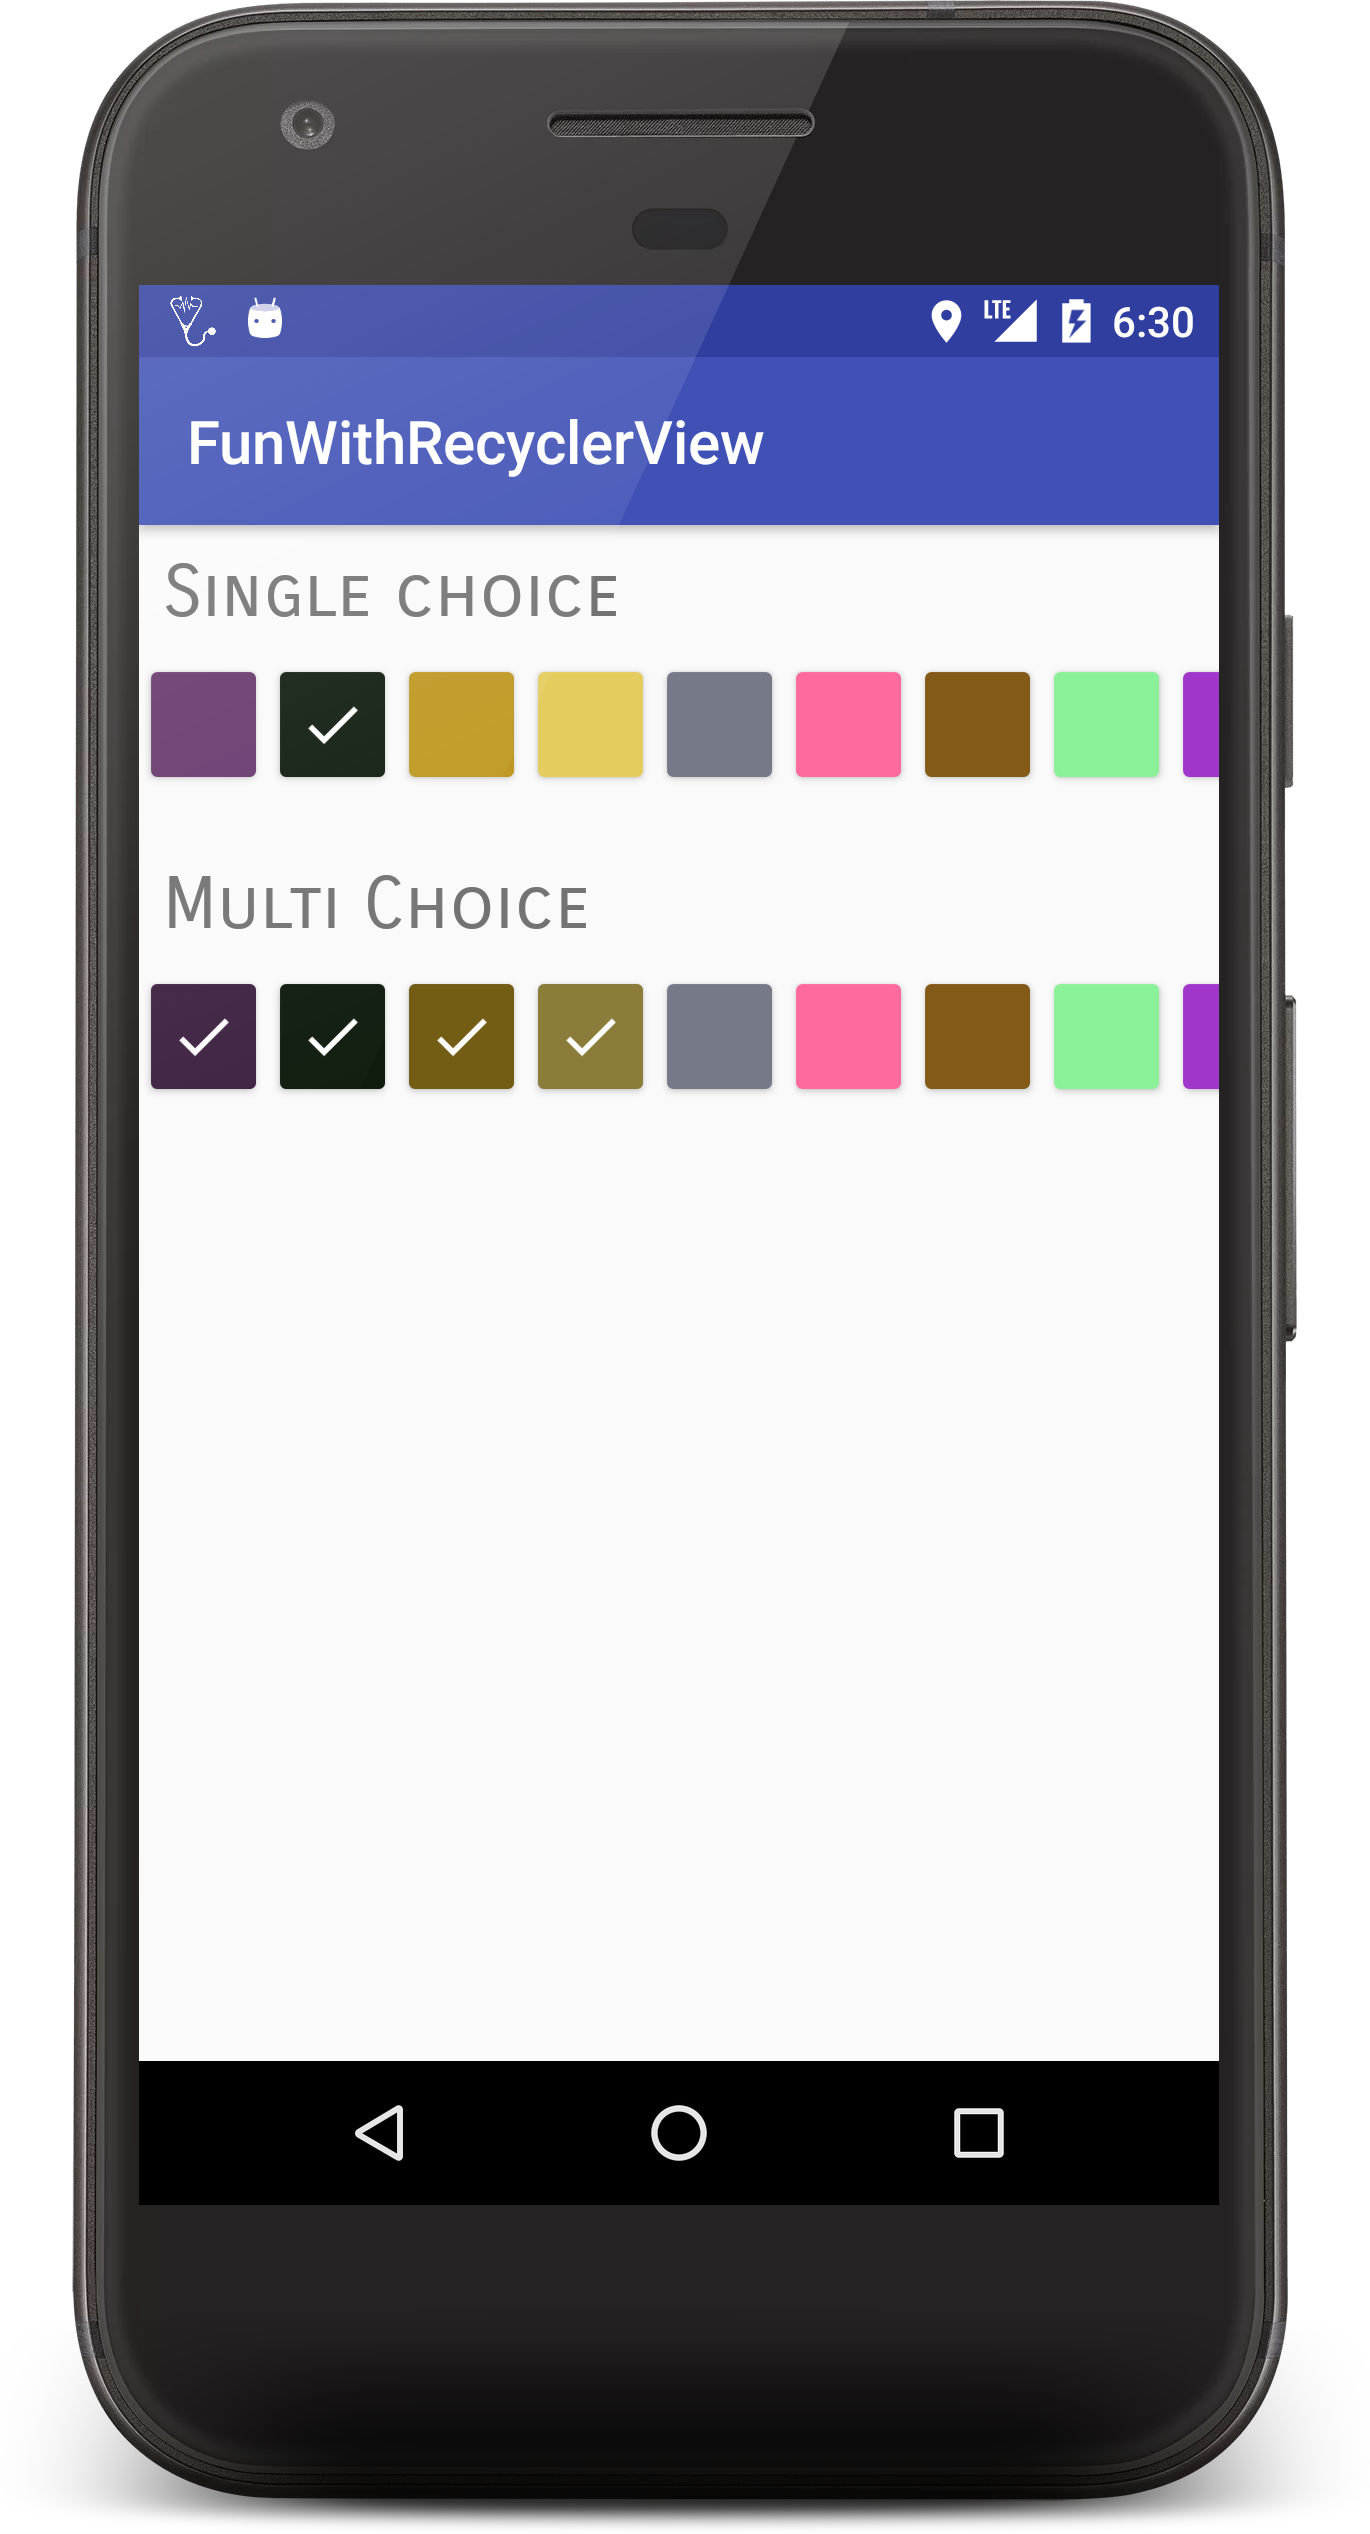
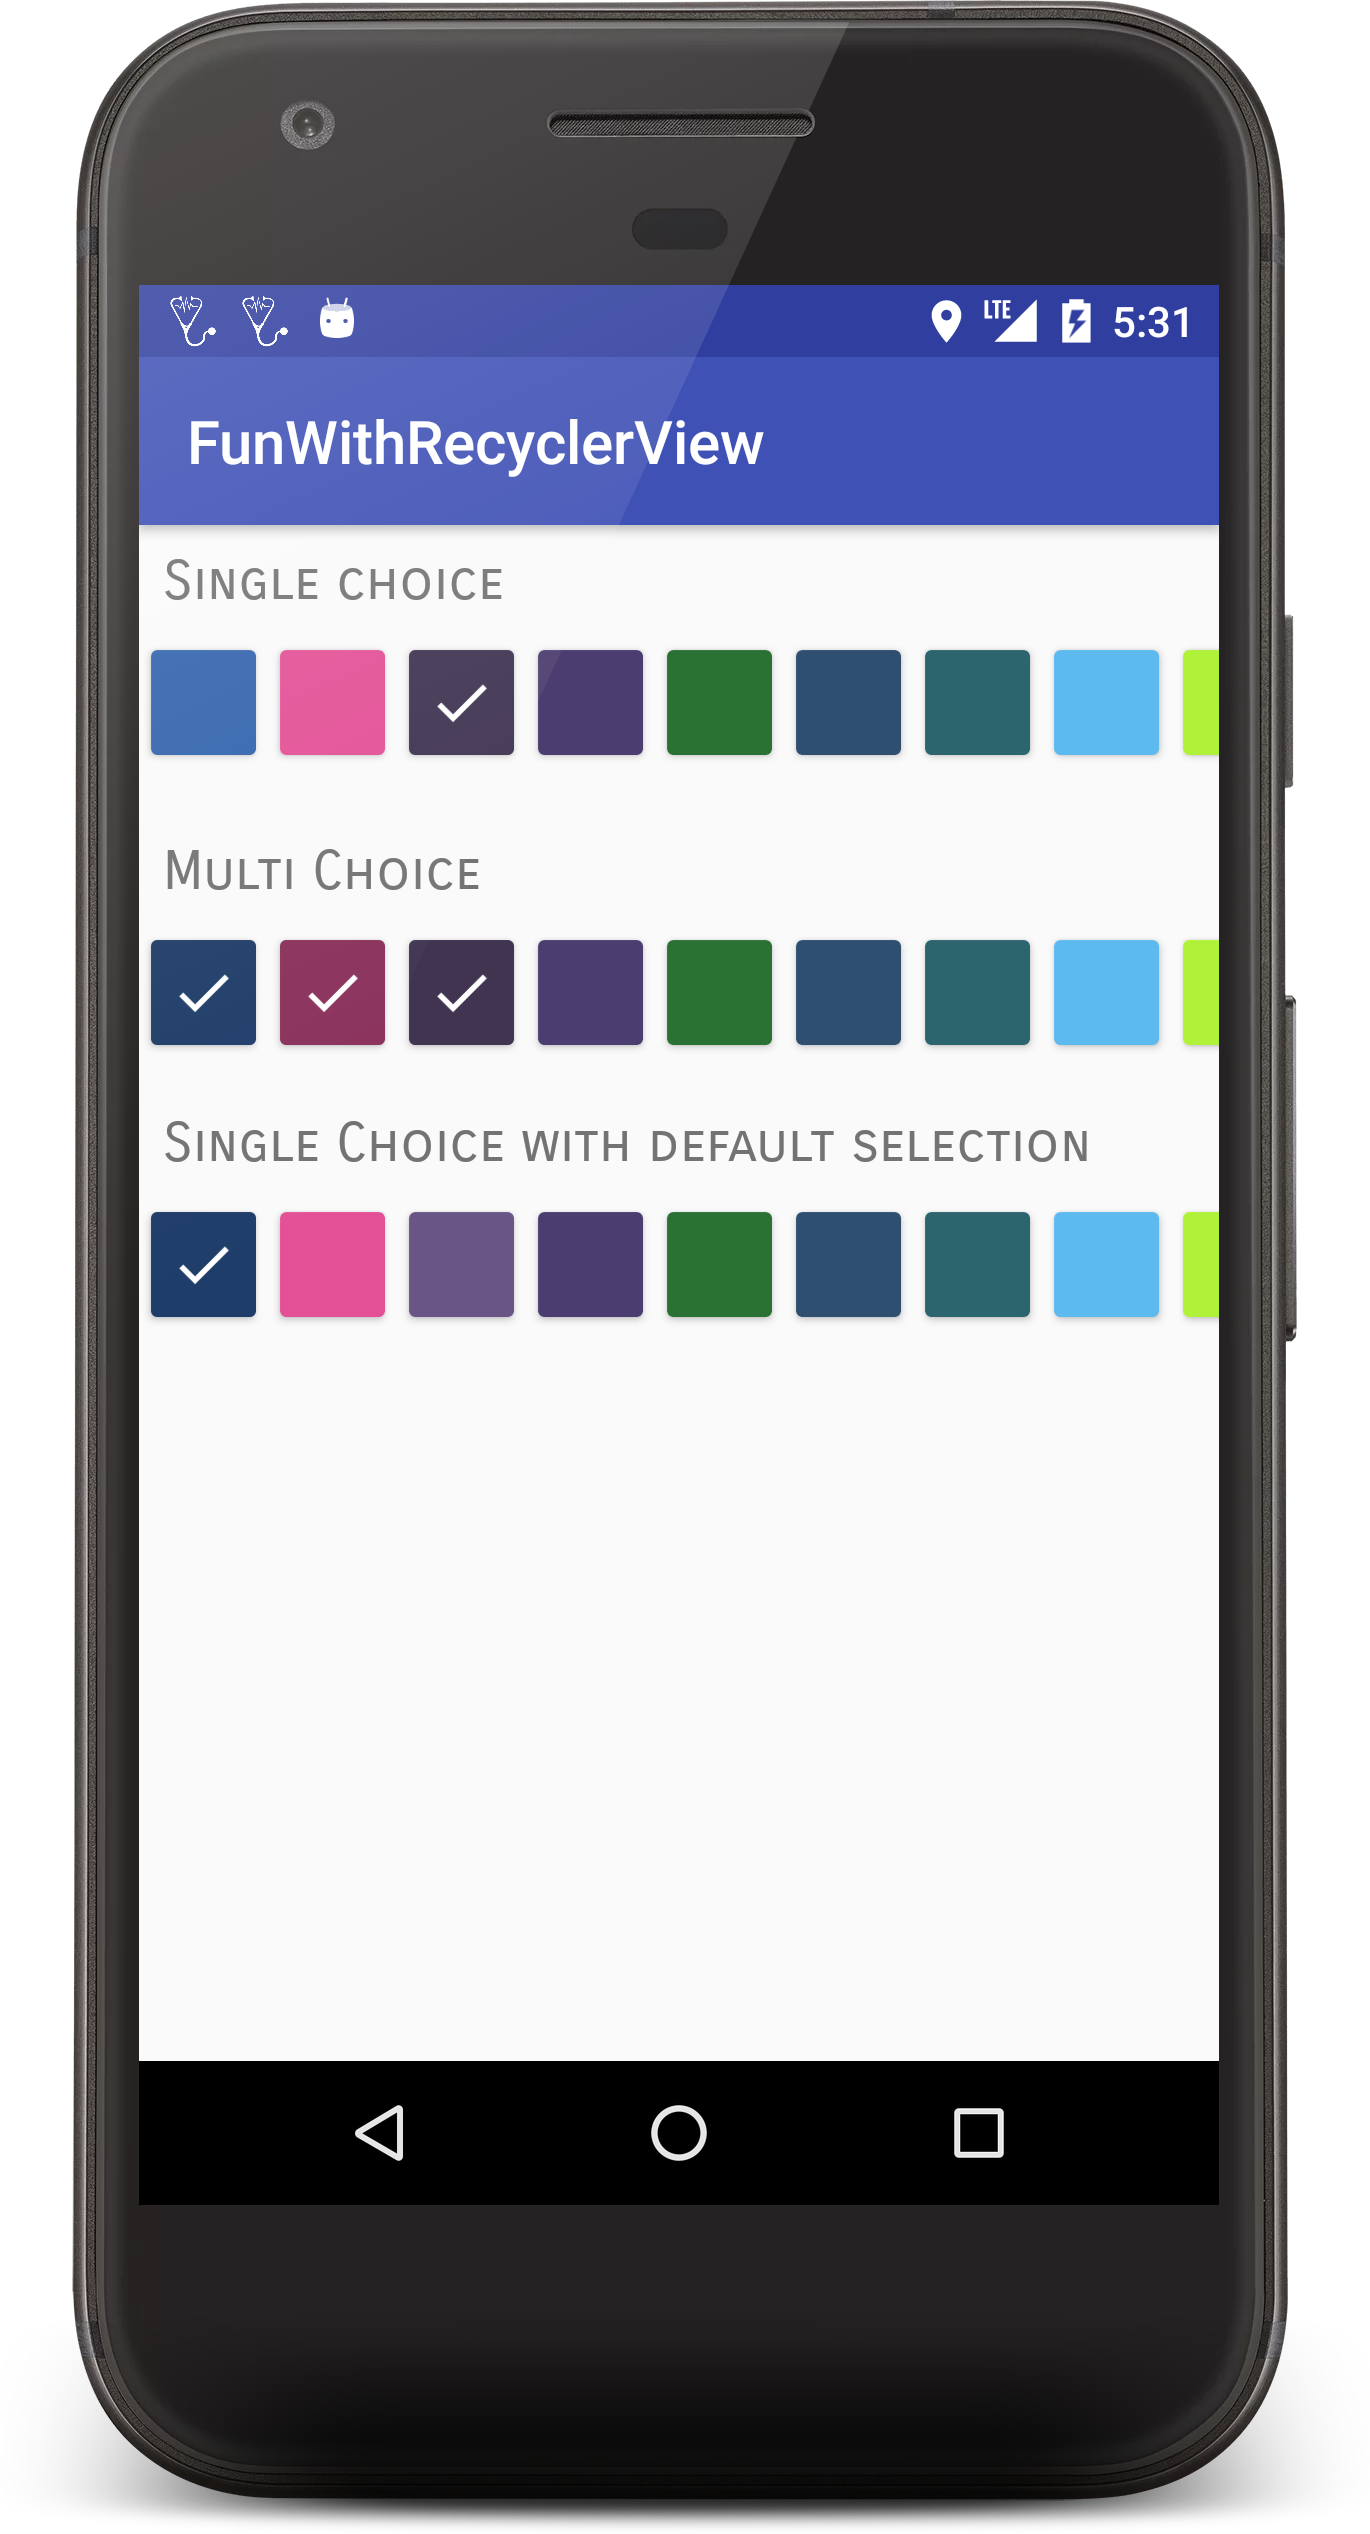
RVChoiceImpl

Changed region(s): [[0.092, 0.2182, 0.8891, 0.53], [0.1839, 0.0935, 0.2146, 0.1559], [0.2453, 0.1247, 0.2759, 0.1559]]

diff --git a/Projects/FunWithRecyclerView/app/src/main/java/alfishan/funwithrecyclerview/delegates/ColorItemSingleWithDefaultSelectionDelegate.java b/Projects/FunWithRecyclerView/app/src/main/java/alfishan/funwithrecyclerview/delegates/ColorItemSingleWithDefaultSelectionDelegate.java
@@ -1,0 +1,133 @@
+/*
+ * Copyright (c) 2015 Hannes Dorfmann.
+ *
+ *  Licensed under the Apache License, Version 2.0 (the "License");
+ *  you may not use this file except in compliance with the License.
+ *  You may obtain a copy of the License at
+ *
+ *    http://www.apache.org/licenses/LICENSE-2.0
+ *
+ *  Unless required by applicable law or agreed to in writing, software
+ *  distributed under the License is distributed on an "AS IS" BASIS,
+ *  WITHOUT WARRANTIES OR CONDITIONS OF ANY KIND, either express or implied.
+ *  See the License for the specific language governing permissions and
+ *  limitations under the License.
+ */
+
+package alfishan.funwithrecyclerview.delegates;
+
+
+import android.content.Context;
+import android.support.annotation.NonNull;
+import android.support.annotation.Nullable;
+import android.support.v7.widget.AppCompatImageView;
+import android.support.v7.widget.CardView;
+import android.support.v7.widget.RecyclerView;
+import android.view.LayoutInflater;
+import android.view.View;
+import android.view.ViewGroup;
+
+import com.hannesdorfmann.adapterdelegates3.AdapterDelegate;
+
+import java.util.List;
+
+import alfishan.funwithrecyclerview.R;
+import alfishan.funwithrecyclerview.models.ColorItem;
+import butterknife.BindView;
+import butterknife.ButterKnife;
+
+
+public class ColorItemSingleWithDefaultSelectionDelegate extends AdapterDelegate<List<Object>> {
+
+
+
+    private LayoutInflater inflater;
+    private SingleItemHelper mItemListener;
+
+    public ColorItemSingleWithDefaultSelectionDelegate(Context mContext, SingleItemHelper mListener) {
+        inflater = (LayoutInflater) mContext.getSystemService(Context.LAYOUT_INFLATER_SERVICE);
+        mItemListener = mListener;
+    }
+
+    @Override
+    protected boolean isForViewType(@NonNull List<Object> items, int position) {
+        return items.get(position) instanceof ColorItem;
+
+    }
+
+
+    @Override
+    protected void onViewAttachedToWindow(@NonNull RecyclerView.ViewHolder holder) {
+        super.onViewAttachedToWindow(holder);
+
+    }
+
+    @Override
+    protected void onViewDetachedFromWindow(RecyclerView.ViewHolder holder) {
+        super.onViewDetachedFromWindow(holder);
+
+    }
+
+
+    @NonNull
+    @Override
+    public RecyclerView.ViewHolder onCreateViewHolder(@NonNull ViewGroup parent) {
+        return new ColorItemViewHolder(inflater.inflate(R.layout.single_choice_color_list_item, parent, false));
+    }
+
+    @Override
+    public void onBindViewHolder(@NonNull List<Object> items, int position, @NonNull RecyclerView.ViewHolder holder, @Nullable List<Object> payloads) {
+        configureSelectionItemCardViewHolder((ColorItemViewHolder) holder, items.get(position));
+    }
+
+
+    private void configureSelectionItemCardViewHolder(ColorItemViewHolder holder, Object mValue) {
+
+        if (mValue instanceof ColorItem) {
+            holder.bind(((ColorItem) mValue));
+        }
+    }
+
+
+    class ColorItemViewHolder extends RecyclerView.ViewHolder implements View.OnClickListener {
+        @BindView(R.id.color_item)
+        AppCompatImageView mColorItem;
+        private ColorItem mItem;
+        @BindView(R.id.main_card)
+        CardView mMainCard;
+        final View mView;
+
+        ColorItemViewHolder(View view) {
+            super(view);
+            mView=view;
+            ButterKnife.bind(this, view);
+            mView.setOnClickListener(this);
+
+        }
+
+        void bind(ColorItem mItem) {
+            this.mItem = mItem;
+            mMainCard.setCardBackgroundColor(this.mItem.getColor());
+                if (this.mItem.isSelected()) {
+                    mColorItem.setImageResource(R.drawable.ic_selected);
+                } else {
+                    mColorItem.setImageDrawable(null);
+                }
+
+        }
+
+        @Override
+        public void onClick(View view) {
+            if (mItemListener != null) {
+                mItemListener.selectedItem(this.mItem, getAdapterPosition());
+            }
+        }
+    }
+
+    public interface SingleItemHelper {
+
+        void selectedItem(ColorItem mColorItem, int Pos);
+
+    }
+
+}

diff --git a/Projects/FunWithRecyclerView/app/src/main/java/alfishan/funwithrecyclerview/adapters/SingleChoiceWithDefaultAdapter.java b/Projects/FunWithRecyclerView/app/src/main/java/alfishan/funwithrecyclerview/adapters/SingleChoiceWithDefaultAdapter.java
@@ -1,0 +1,93 @@
+package alfishan.funwithrecyclerview.adapters;
+
+import android.content.Context;
+import android.support.v7.widget.RecyclerView;
+import android.view.ViewGroup;
+
+import com.hannesdorfmann.adapterdelegates3.AdapterDelegatesManager;
+
+import java.util.ArrayList;
+import java.util.List;
+
+import alfishan.funwithrecyclerview.delegates.ColorItemSingleWithDefaultSelectionDelegate;
+import alfishan.funwithrecyclerview.models.ColorItem;
+import alfishan.funwithrecyclerview.models.SingleChoiceItem;
+
+/**
+ * Created by root on 17/8/17.
+ */
+
+public class SingleChoiceWithDefaultAdapter extends RecyclerView.Adapter implements ColorItemSingleWithDefaultSelectionDelegate.SingleItemHelper {
+    private AdapterDelegatesManager<List<Object>> delegatesManager;
+    private Helper mListener;
+
+    public void setValues(List<Object>  values) {
+        mValues.addAll(values);
+        notifyDataSetChanged();
+    }
+
+    private List<Object> mValues = new ArrayList<>();
+
+    public SingleChoiceWithDefaultAdapter(Context mContext, Helper mListener) {
+        this.mListener = mListener;
+        mValues = new ArrayList<>(0);
+        delegatesManager = new AdapterDelegatesManager<>();
+        delegatesManager.addDelegate(new ColorItemSingleWithDefaultSelectionDelegate(mContext,this));
+
+
+    }
+
+
+    @Override
+    public RecyclerView.ViewHolder onCreateViewHolder(ViewGroup parent, int viewType) {
+        return delegatesManager.onCreateViewHolder(parent, viewType);
+    }
+
+    @Override
+    public void onBindViewHolder(RecyclerView.ViewHolder holder, int position) {
+        delegatesManager.onBindViewHolder(mValues, position, holder);
+    }
+
+    @Override
+    public void onBindViewHolder(RecyclerView.ViewHolder holder, int position, List payloads) {
+        delegatesManager.onBindViewHolder(mValues, position, holder, payloads);
+    }
+
+    @Override
+    public int getItemCount() {
+        return mValues.size();
+    }
+
+
+    @Override
+    public int getItemViewType(int position) {
+        return delegatesManager.getItemViewType(mValues, position);
+    }
+
+    @Override
+    public void selectedItem(ColorItem mColorItem,int pos) {
+
+        for (Object value : mValues) {
+            if (((ColorItem) value).getId()!=mColorItem.getId()) {
+                ((ColorItem) value).setSelected(false);
+            }
+            else {
+                ((ColorItem) value).setSelected(true);
+            }
+        }
+        if (mListener != null) {
+            mListener.onItemSelected(mColorItem);
+        }
+        notifyDataSetChanged();
+    }
+
+
+    public interface Helper {
+
+        void onItemSelected(SingleChoiceItem mSingleChoiceItem);
+
+    }
+
+
+
+}

diff --git a/Projects/FunWithRecyclerView/app/src/main/java/alfishan/funwithrecyclerview/MainActivity.java b/Projects/FunWithRecyclerView/app/src/main/java/alfishan/funwithrecyclerview/MainActivity.java
@@ -12,17 +12,20 @@ import java.util.Random;
 
 import alfishan.funwithrecyclerview.adapters.MultiChoiceAdapter;
 import alfishan.funwithrecyclerview.adapters.SingleChoiceAdapter;
+import alfishan.funwithrecyclerview.adapters.SingleChoiceWithDefaultAdapter;
 import alfishan.funwithrecyclerview.models.ColorItem;
 import alfishan.funwithrecyclerview.models.SingleChoiceItem;
 import butterknife.BindView;
 import butterknife.ButterKnife;
 
-public class MainActivity extends AppCompatActivity implements SingleChoiceAdapter.Helper, MultiChoiceAdapter.Helper {
+public class MainActivity extends AppCompatActivity implements SingleChoiceAdapter.Helper, MultiChoiceAdapter.Helper, SingleChoiceWithDefaultAdapter.Helper {
 
     @BindView(R.id.single_choice_rv)
     RecyclerView mSingleChoiceRv;
     @BindView(R.id.multi_choice_rv)
     RecyclerView mMultiChoiceRv;
+    @BindView(R.id.single_choice_default_rv)
+    RecyclerView mSingleChoiceDefaultRv;
 
     @Override
     protected void onCreate(Bundle savedInstanceState) {
@@ -41,13 +44,26 @@ public class MainActivity extends AppCompatActivity implements SingleChoiceAdapt
             mColors.add(new ColorItem(i, color));
         }
 
-        mSingleChoiceRv.setHasFixedSize(true);
+        // to set 1st color as selected
+        ((ColorItem) mColors.get(0)).setSelected(true);
+
+
         SingleChoiceAdapter mSingleChoiceAdapter = new SingleChoiceAdapter(this, this);
+        SingleChoiceWithDefaultAdapter mSingleChoiceWithDefaultAdapter = new SingleChoiceWithDefaultAdapter(this, this);
         MultiChoiceAdapter mMultiChoiceAdapter = new MultiChoiceAdapter(this, this);
+
         mSingleChoiceRv.setAdapter(mSingleChoiceAdapter);
         mMultiChoiceRv.setAdapter(mMultiChoiceAdapter);
+        mSingleChoiceDefaultRv.setAdapter(mSingleChoiceWithDefaultAdapter);
+
         mSingleChoiceAdapter.setValues(mColors);
         mMultiChoiceAdapter.setValues(mColors);
+        mSingleChoiceWithDefaultAdapter.setValues(mColors);
+
+        mSingleChoiceRv.setHasFixedSize(true);
+        mMultiChoiceRv.setHasFixedSize(true);
+        mSingleChoiceDefaultRv.setHasFixedSize(true);
+
 
     }
 

diff --git a/Projects/FunWithRecyclerView/app/src/main/java/alfishan/funwithrecyclerview/models/ColorItem.java b/Projects/FunWithRecyclerView/app/src/main/java/alfishan/funwithrecyclerview/models/ColorItem.java
@@ -7,6 +7,11 @@ package alfishan.funwithrecyclerview.models;
 public class ColorItem implements SingleChoiceItem {
     private int id;
     private int color;
+
+    public void setSelected(boolean selected) {
+        isSelected = selected;
+    }
+
     private boolean isSelected = false;
 
     public ColorItem(int id, int color) {
